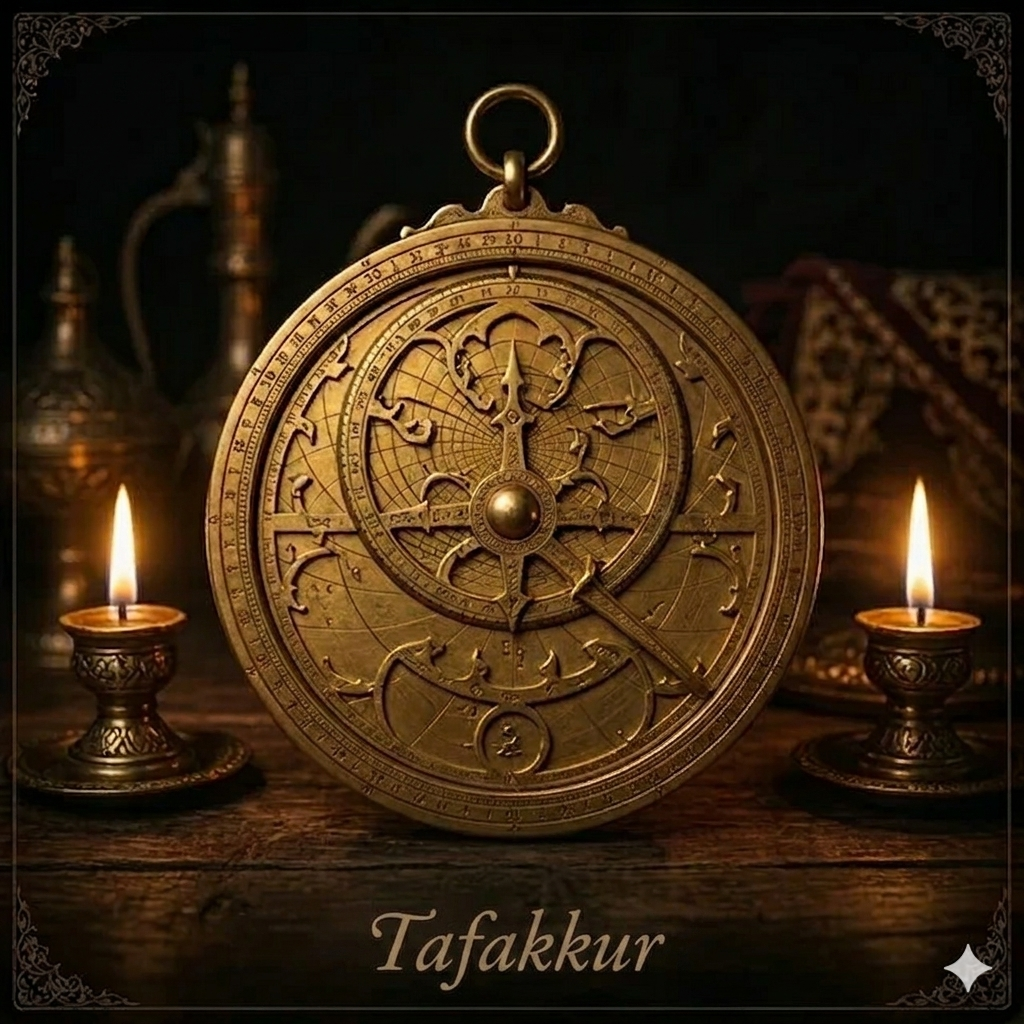
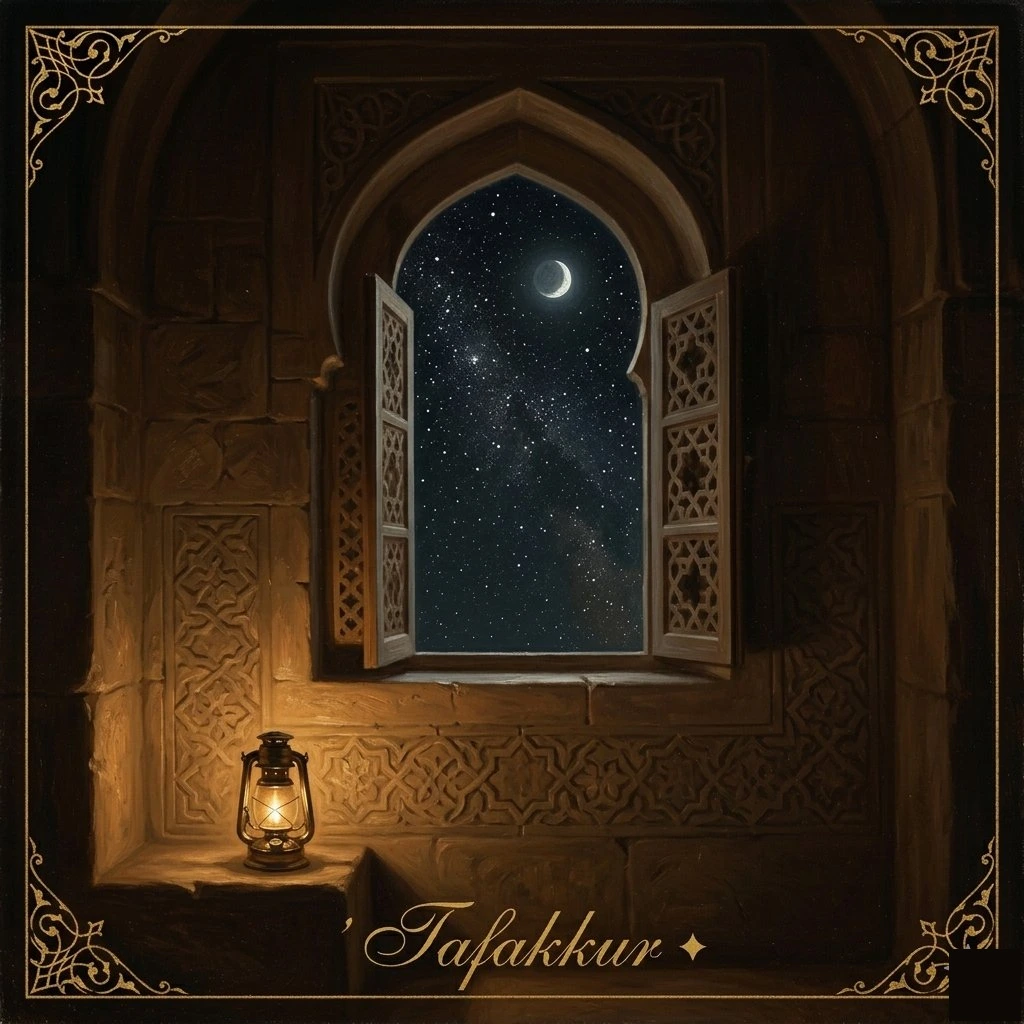
feat: nouvelles images cartes Sanctuaire (pratique/chemin/portes/tafakkur) + cleanup orphelins

diff --git a/sw.js b/sw.js
@@ -1,4 +1,4 @@
-const VERSION = 'niyyah-v544';
+const VERSION = 'niyyah-v545';
 const CORE = [
   './index.html',
   './script.min.js',